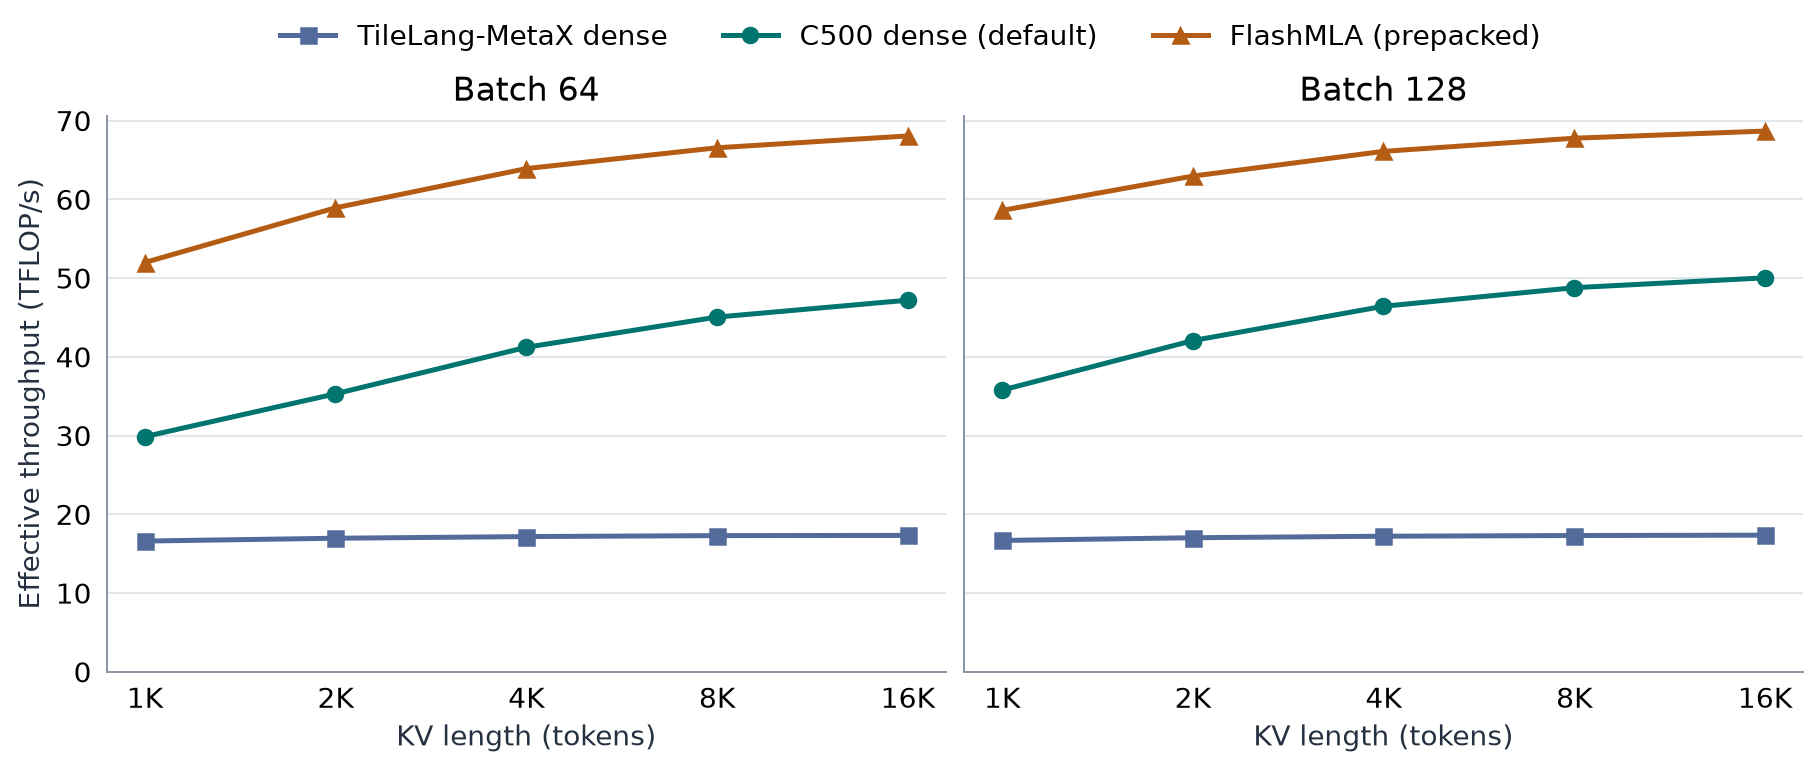
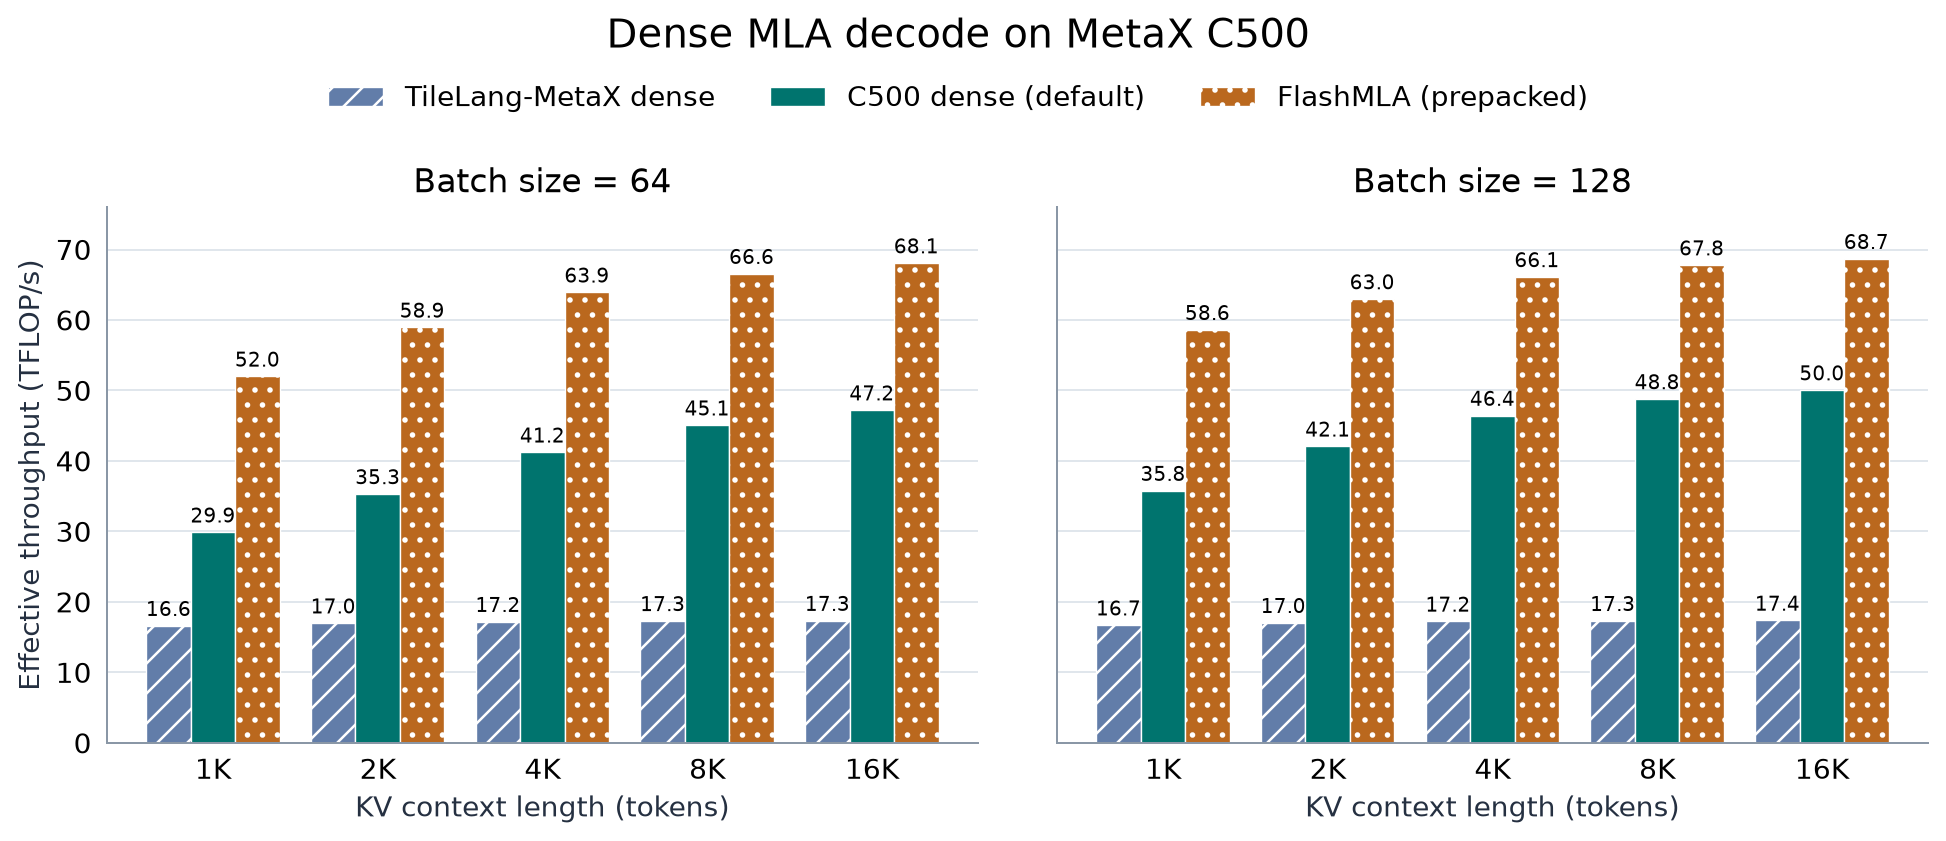
Present C500 throughput in grouped bars alongside the AMD example

diff --git a/examples/deepseek_mla/maca/README.md b/examples/deepseek_mla/maca/README.md
@@ -56,7 +56,7 @@ The following C500 cases use the nominal batch, head count and lengths from the 
 
 ![Effective throughput on C500 for the dense baseline, the default kernel and native prepacked FlashMLA at batch 64 and 128](../figures/flashmla-maca.png)
 
-Effective TFLOP/s counts the score and value products as `2 × B × H × N × (576 + 512)` operations, following the AMD TileLang example. Each point divides that count by the median full-call wall time. Packing and scheduling metadata for the native paged series are prepared beforehand.
+Effective TFLOP/s counts the score and value products as `2 × B × H × N × (576 + 512)` operations, following the AMD TileLang example. Each bar divides that count by the median full-call wall time. Packing and scheduling metadata for the native paged series are prepared beforehand.
 
 | Batch | KV | Default head tile / splits | C500 wall (µs) | Dense baseline wall (µs) | Dense speedup | Native paged FlashMLA wall (µs) |
 |---:|---:|---:|---:|---:|---:|---:|
